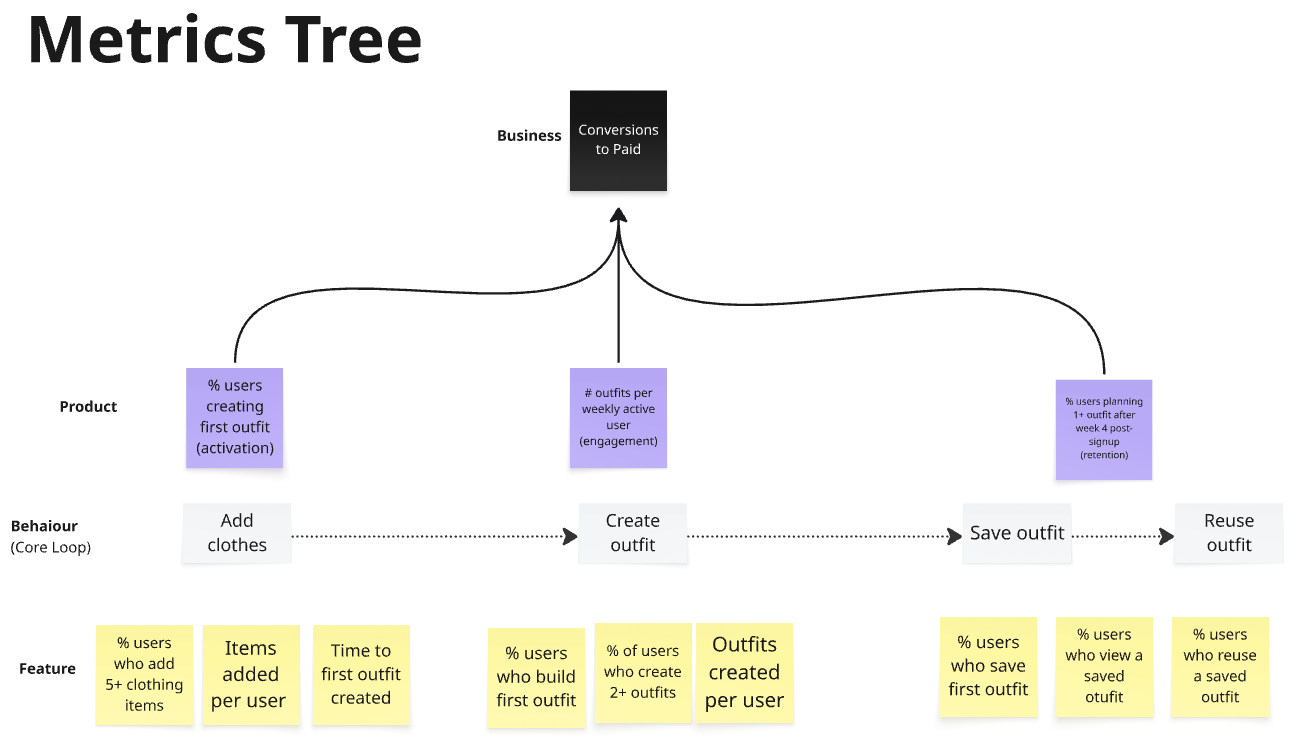
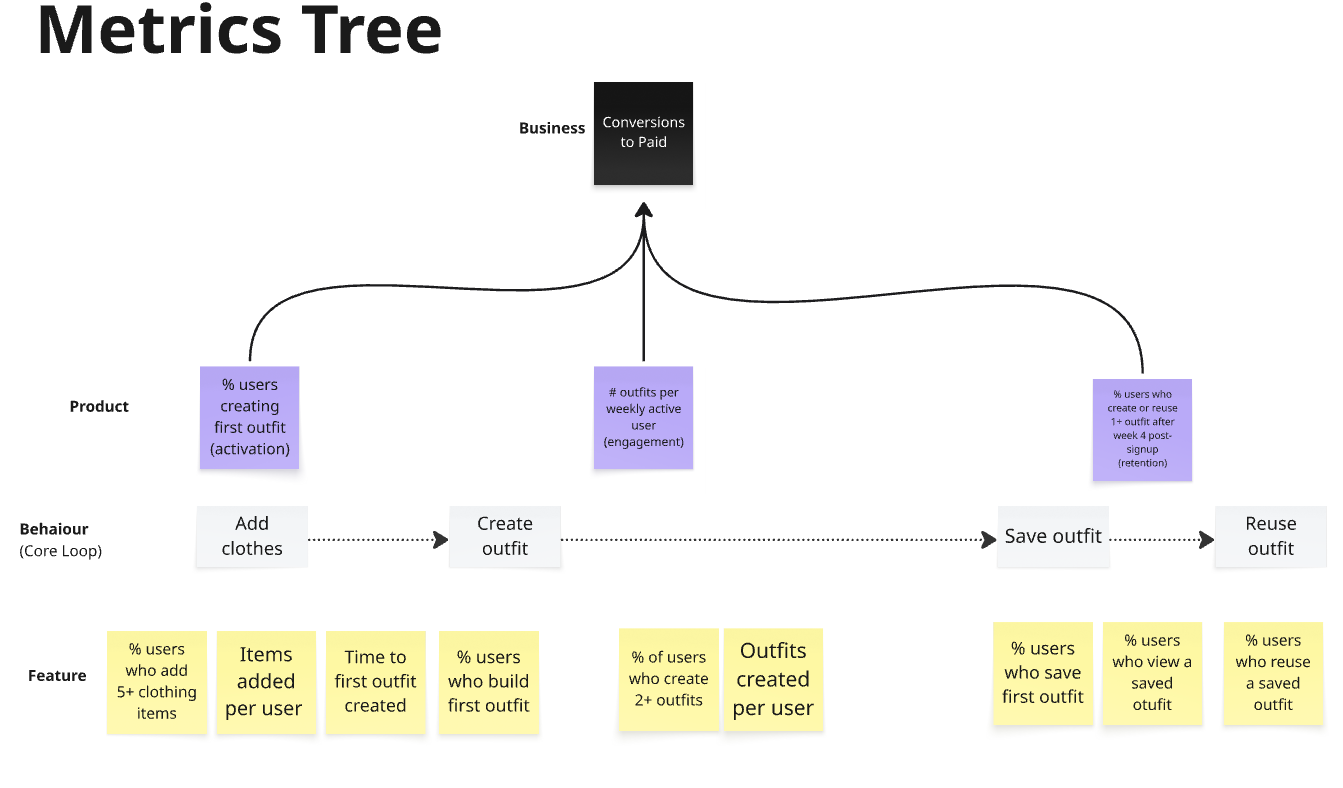
fixed retention metric in PRD, OST and Metrics Tree

diff --git a/docs/PRD.md b/docs/PRD.md
@@ -24,7 +24,7 @@ The MVP specifically aims to improve the following product metrics:
 
 - **Activation:** % of users who create their first outfit
 - **Engagement:** Number of outfits created per Weekly Active User
-- **Retention:** % of users who create an outfit at least once in week 4
+- **Retention:** % of users who create or reuse an outfit at least once in week 4
 
 The features included in this PRD are scoped to support the core behaviour loop:
 
